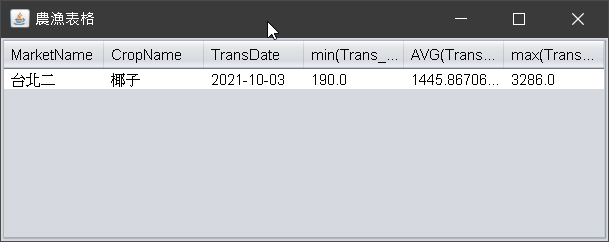
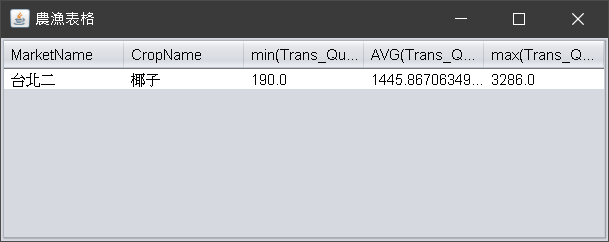
V0.6.2
取消第一題輸出TransDate 因為沒有用
並修改MD附圖

diff --git a/systex_prj/src/prj_GUI/GUI_From.java b/systex_prj/src/prj_GUI/GUI_From.java
@@ -394,7 +394,7 @@ public  HashSet<String> get() throws Exception{
                 //第一題
                 if ( text[3].length()!= 0 && text[4].length()!= 0 && text[0].length()!= 0 && text[1].length()!= 0 && text[6].length()== 0&& text[5].equals("false") ){
                     System.out.println("第一題");
-                    statement = con.prepareStatement("SELECT TransDate,CropName,MarketName,AVG(Trans_Quantity),max(Trans_Quantity),min(Trans_Quantity) FROM `agriproductstranstype` where MarketName = '"+text[1]+"' and CropName = '"+text[0]+"' and TransDate >='"+text[3]+"' and TransDate <='"+text[4]+"'");
+                    statement = con.prepareStatement("SELECT CropName,MarketName,AVG(Trans_Quantity),max(Trans_Quantity),min(Trans_Quantity) FROM `agriproductstranstype` where MarketName = '"+text[1]+"' and CropName = '"+text[0]+"' and TransDate >='"+text[3]+"' and TransDate <='"+text[4]+"'");
                 //輸入起始時間跟結束時間，顯示這段時間農產品中的"椰子"在"台北二"這個市場中的平均交易量、最大交易量、最低交易量。
                 //SELECT TransDate,CropName,MarketName,AVG(Trans_Quantity),max(Trans_Quantity),min(Trans_Quantity) FROM `agriproductstranstype2` where MarketName = "台北二" and CropName = "椰子" and TransDate >='104.01.01' and TransDate <='107.04.12' ;
                 }

diff --git a/README.md b/README.md
@@ -68,7 +68,7 @@ Avg_Price DOUBLE,
 Trans_Quantity DOUBLE,
 PRIMARY KEY(id));
 ```
-- SQL 名稱及使用型態說明
+- SQL 名稱及使用型態說明  
 取一樣名子只是為了修改程式方便.  
 TransDate 用data是因為第四題需要分別使用年和月故切割比較方便.  
 CropCode 是因為當初不知容量故選比較占容量比較小的varchar.  
@@ -88,8 +88,7 @@ Avg_Price & Trans_Quantity 因為需要計算故使用精度較高的DOUBLE.
 
 ![1](https://user-images.githubusercontent.com/77679082/148412834-96a5b093-2b3c-49ae-bd09-0de24d3fd2ad.png)  
 結果:<br>
-![1農漁表格](https://user-images.githubusercontent.com/77679082/148412982-bcef16f9-cefe-4ea5-bcbe-10b796545ee6.png)  
-
+![1農漁表格](https://user-images.githubusercontent.com/77679082/148494745-b42184dd-9eed-48bc-95ea-ed2c8a3bb0c0.png)  
 > 第二題:
 > 輸入: 單一時間 、 農或漁
 
